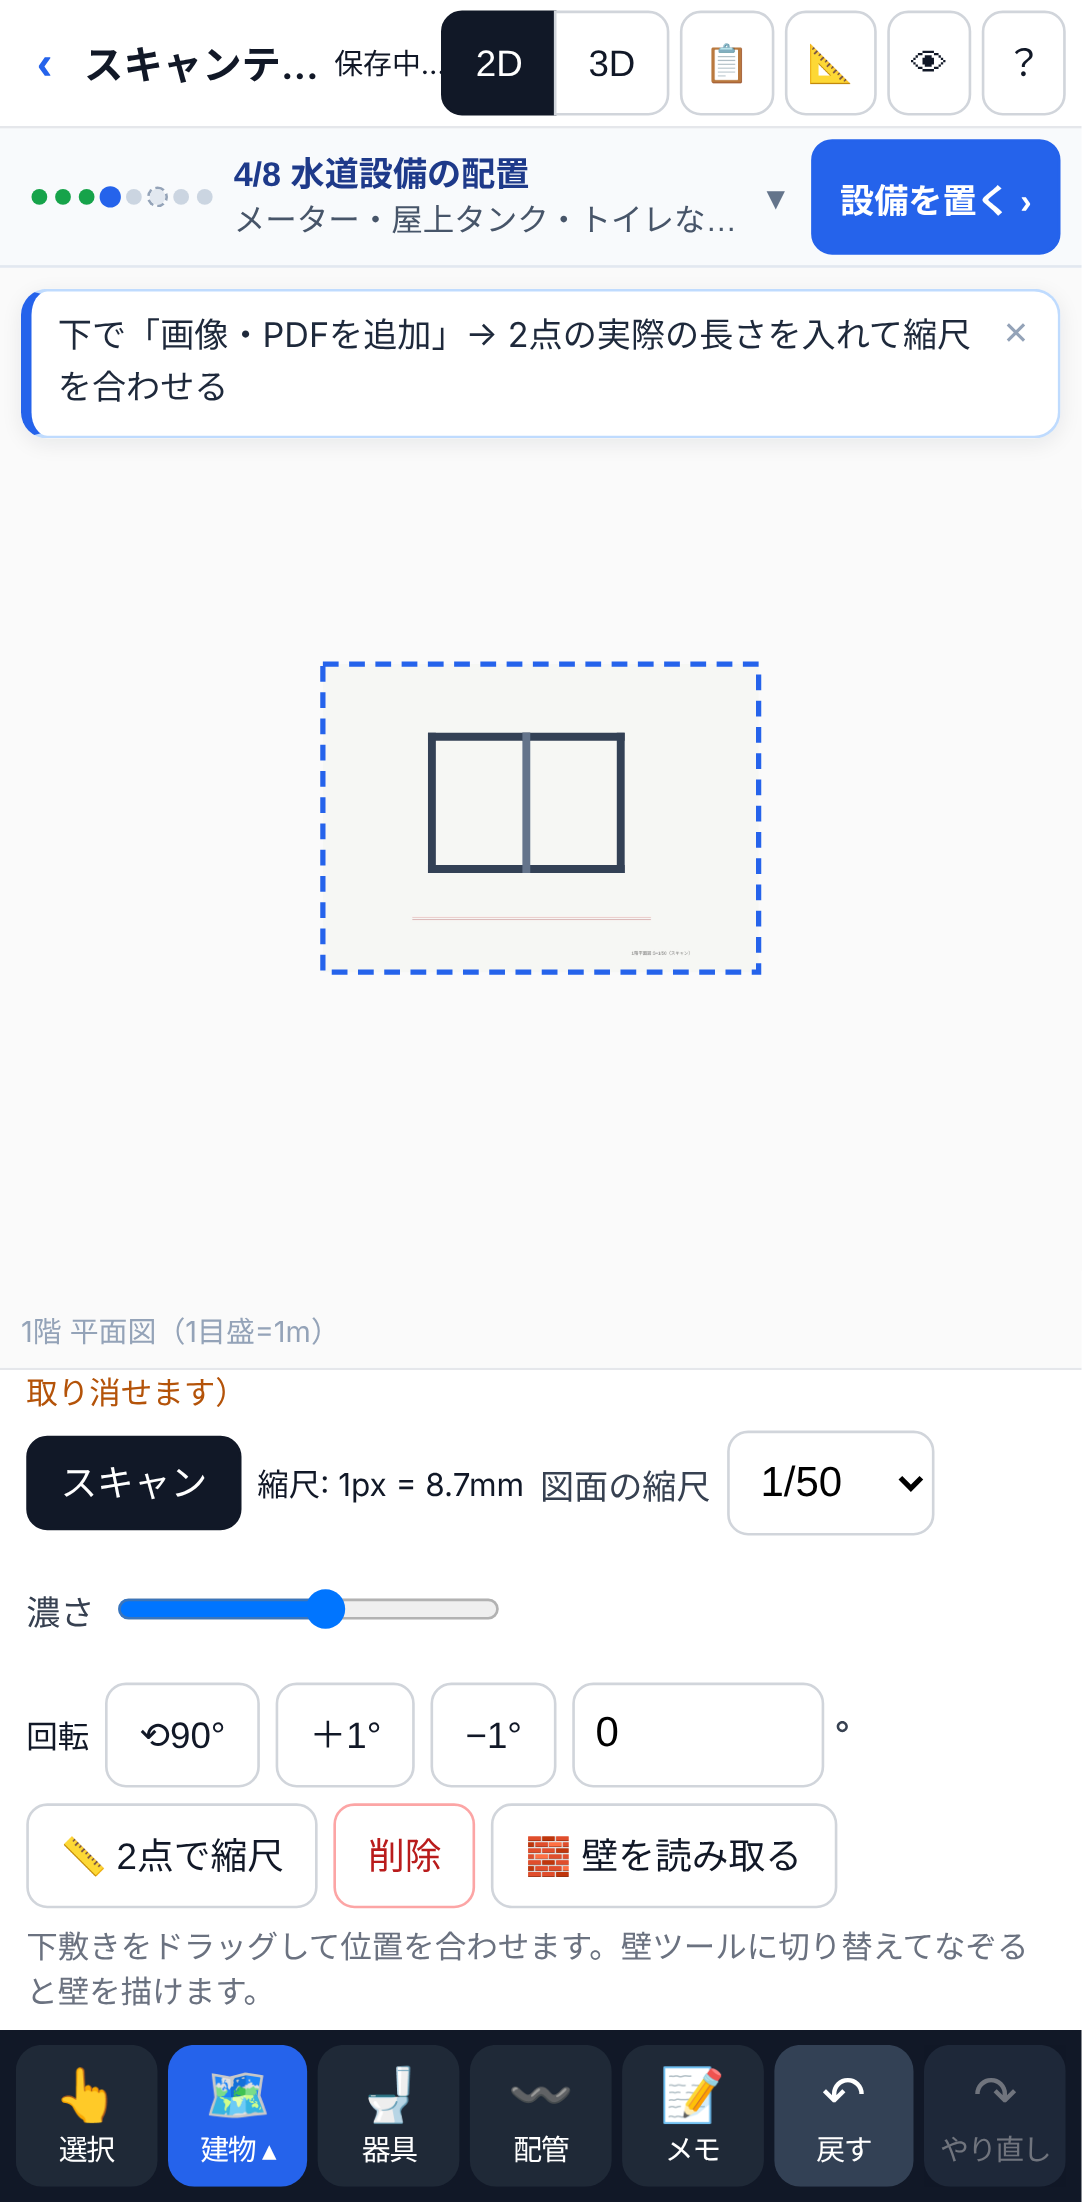
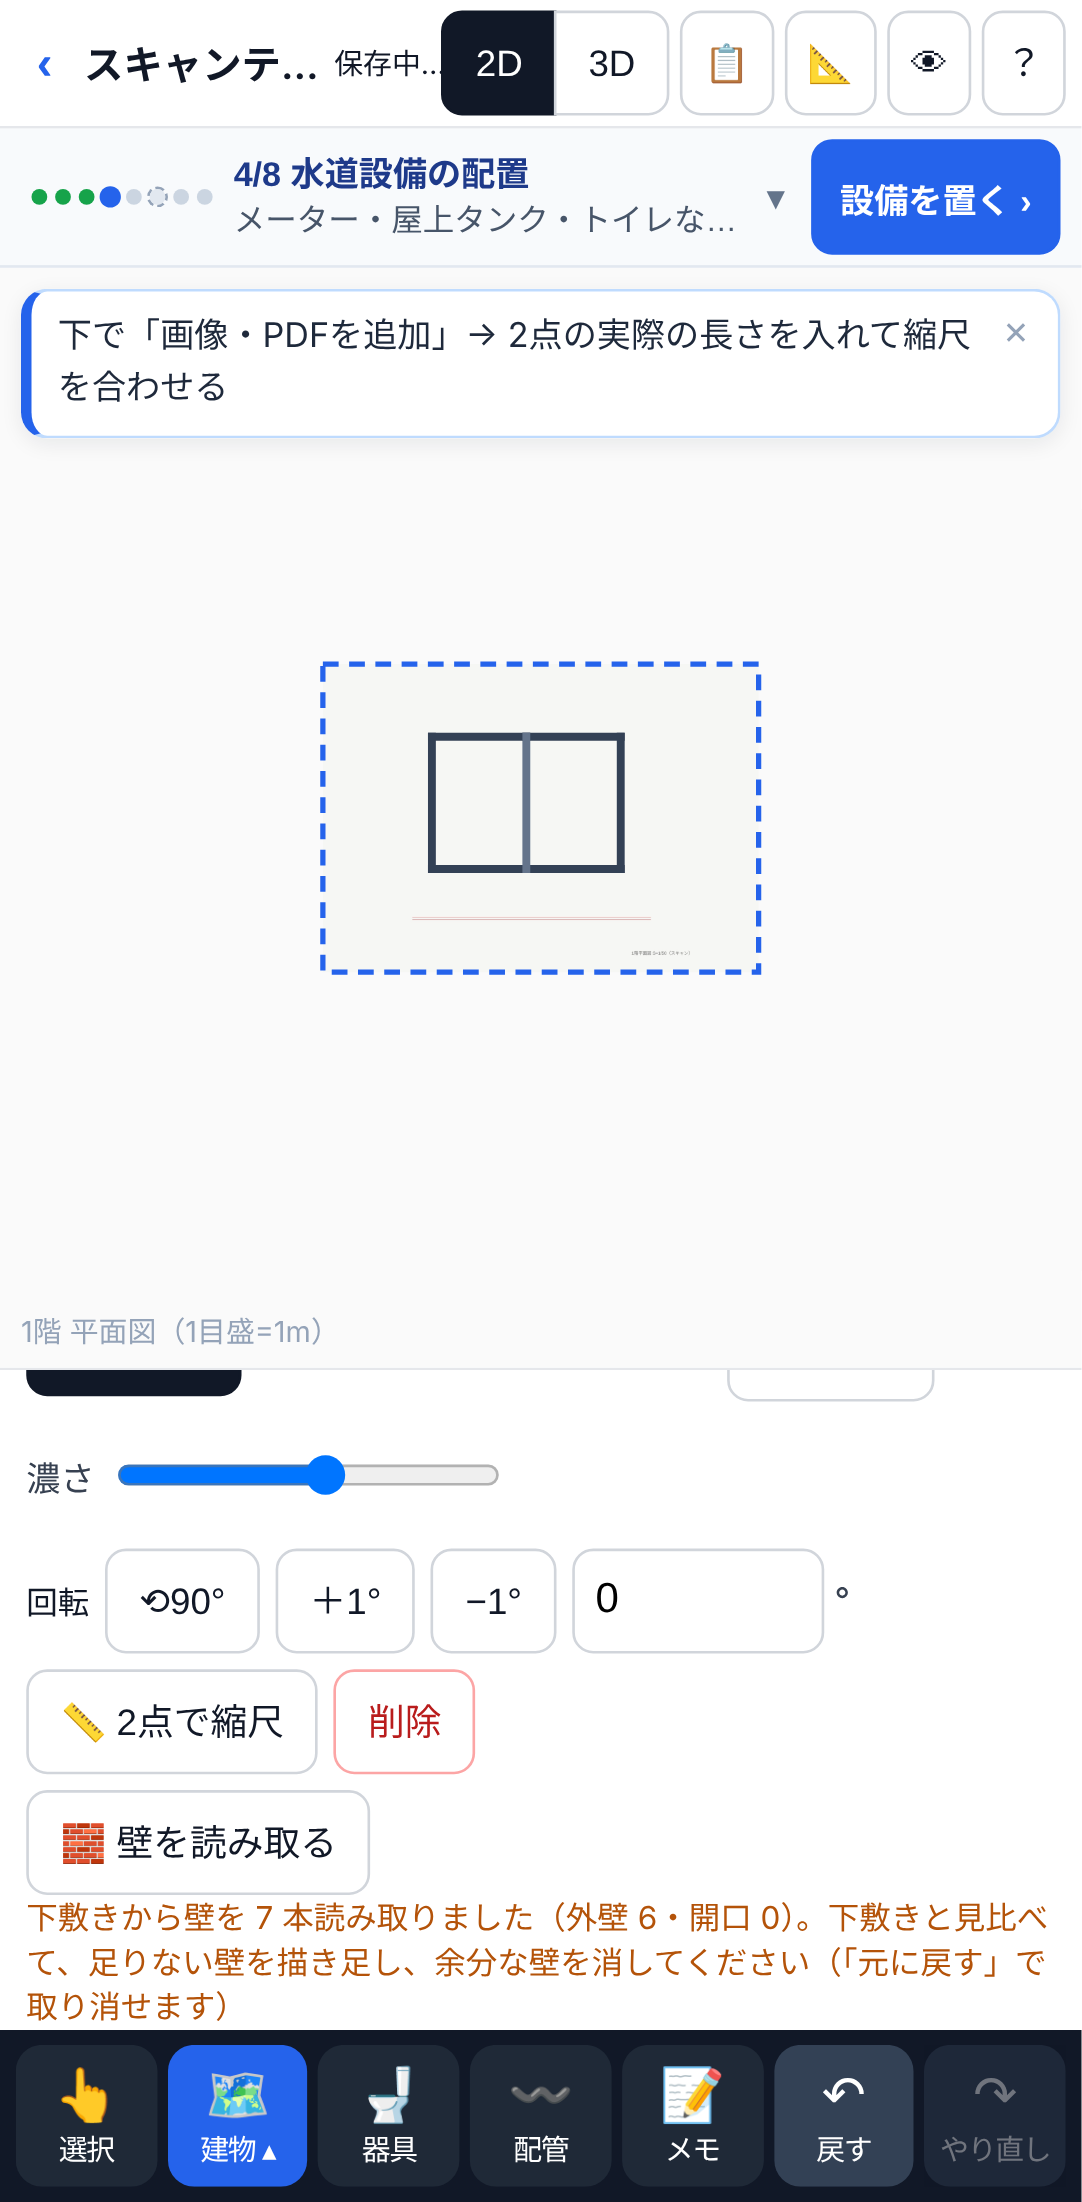
fix: 監査の指摘 — 表・文字枠を壁にしない、ロック中の壁は置き換えない、結果をボタンの下に（スマホ）
Claude-Session: https://claude.ai/code/session_0147UKVwBmNFrXg4wqBoozMN

diff --git a/src/ui/UnderlayPanel.tsx b/src/ui/UnderlayPanel.tsx
@@ -181,7 +181,7 @@ export function UnderlayPanel() {
           ) : (
             <ScalePick />
           )}
-          {(active.kind === 'pdf' || active.kind === 'image') && <ScanWalls u={active} onNote={(m) => { setNote(m); setErr(''); }} onError={(m) => { setErr(m); setNote(''); }} />}
+          {(active.kind === 'pdf' || active.kind === 'image') && <ScanWalls key={active.id} u={active} />}
           <div className="muted small">下敷きをドラッグして位置を合わせます。壁ツールに切り替えてなぞると壁を描けます。</div>
         </>
       )}
@@ -191,39 +191,49 @@ export function UnderlayPanel() {
 }
 
 /** スキャンした図面（画像だけの PDF・写真）から壁の候補を読み、この階に入れる */
-function ScanWalls({ u, onNote, onError }: { u: Underlay; onNote: (m: string) => void; onError: (m: string) => void }) {
+function ScanWalls({ u }: { u: Underlay }) {
   const st = useStore.getState();
+  // 数だけを選ぶ（配列を選ぶと毎回新しい値になり、描き直しが止まらない）
   const existing = useStore((s) => Object.values(s.doc.building.walls).filter((w) => w.floorId === u.floorId).length);
+  const locked = useStore((s) => Object.values(s.doc.building.walls).filter((w) => w.floorId === u.floorId && w.locked).length);
   const [busy, setBusy] = useState(false);
   const [confirm, setConfirm] = useState(false);
+  // 結果はボタンのすぐ下に出す（スマホでパネルの上の方のお知らせは画面の外になる）
+  const [msg, setMsg] = useState<{ text: string; error?: boolean } | null>(null);
+  const msgRef = useRef<HTMLDivElement>(null);
+  useEffect(() => { if (msg) msgRef.current?.scrollIntoView?.({ block: 'nearest' }); }, [msg]);
   if (!u.scaled) return <div className="muted small" data-testid="ul-walls-hint">🧱 縮尺を決めると、スキャンした図面から壁を読み取れます</div>;
   const read = async (replace: boolean) => {
     setConfirm(false);
     setBusy(true);
+    setMsg(null);
     try {
       const { readWallsFromUnderlay } = await import('../import/scanWalls');
       const walls = await readWallsFromUnderlay(u);
-      if (!walls.length) { onError('壁を読み取れませんでした（線が薄い・写真が斜め・縮尺が合っていない など）。下敷きをなぞって描いてください'); return; }
+      if (!walls.length) { setMsg({ text: '壁を読み取れませんでした（線が薄い・写真が斜め・縮尺が合っていない など）。下敷きをなぞって描いてください', error: true }); return; }
       const r = st.readUnderlayWalls(u.id, walls, replace);
-      if (!r) { onError('壁を入れられませんでした'); return; }
-      onNote(`下敷きから壁を ${r.walls} 本読み取りました（外壁 ${r.exterior}・開口 ${r.openings}）。下敷きと見比べて、足りない壁を描き足し、余分な壁を消してください（「元に戻す」で取り消せます）`);
+      if (!r) { setMsg({ text: useStore.getState().notice || '壁を入れられませんでした', error: true }); return; }
+      setMsg({ text: `下敷きから壁を ${r.walls} 本読み取りました（外壁 ${r.exterior}・開口 ${r.openings}）。下敷きと見比べて、足りない壁を描き足し、余分な壁を消してください（「元に戻す」で取り消せます）` });
     } catch (e) {
-      onError(`壁を読み取れませんでした: ${e instanceof Error ? e.message : String(e)}`);
+      setMsg({ text: `壁を読み取れませんでした: ${e instanceof Error ? e.message : String(e)}`, error: true });
     } finally { setBusy(false); }
   };
   return (
-    <div className="row" data-testid="ul-walls">
-      {!confirm ? (
-        <button data-testid="ul-read-walls" disabled={busy} title="スキャンした図面（画像だけの PDF）・写真の黒い線から、壁の候補を読み取ってこの階に入れます。赤や青の書き込みは読みません" onClick={() => (existing ? setConfirm(true) : void read(false))}>
-          {busy ? '読み取り中…' : '🧱 壁を読み取る'}
-        </button>
-      ) : (
-        <>
-          <span className="warn small">この階の壁 {existing} 本を消して、下敷きから読み直しますか？</span>
-          <button className="danger" data-testid="ul-walls-replace" onClick={() => void read(true)}>置き換える</button>
-          <button data-testid="ul-walls-cancel" onClick={() => setConfirm(false)}>やめる</button>
-        </>
-      )}
+    <div data-testid="ul-walls">
+      <div className="row">
+        {!confirm ? (
+          <button data-testid="ul-read-walls" disabled={busy} title="スキャンした図面（画像だけの PDF）・写真の黒い線から、壁の候補を読み取ってこの階に入れます。赤や青の書き込みは読みません" onClick={() => (existing ? setConfirm(true) : void read(false))}>
+            {busy ? '読み取り中…' : '🧱 壁を読み取る'}
+          </button>
+        ) : (
+          <>
+            <span className="warn small">この階の壁 {existing} 本を消して、下敷きから読み直しますか？{locked ? `（うち 🔒 ${locked} 本はロック中のため、ロックを外すまで置き換えできません）` : ''}</span>
+            <button className="danger" data-testid="ul-walls-replace" onClick={() => void read(true)}>置き換える</button>
+            <button data-testid="ul-walls-cancel" onClick={() => setConfirm(false)}>やめる</button>
+          </>
+        )}
+      </div>
+      {msg && <div ref={msgRef} className={msg.error ? 'err small' : 'warn small'} role={msg.error ? 'alert' : undefined} data-testid="ul-walls-msg">{msg.text}</div>}
     </div>
   );
 }

diff --git a/src/model/planRead/raster.ts b/src/model/planRead/raster.ts
@@ -5,7 +5,7 @@
  * 文字は読まない（縮尺は下敷きで決める）。斜めの壁は対象外。
  */
 import type { Vec2 } from '../building';
-import { detectStrips, heavyWidth, WALL_STRIP, type WSeg } from './strips';
+import { detectStrips, heavyWidth, WALL_STRIP, type Strip, type WSeg } from './strips';
 import { buildingStrips, wallsFromStrips, type WallOpening } from './walls';
 
 /** 色の濃さ（最大−最小）がこれより大きい画素は書き込み（赤ペン・青ペン）とみなしてインクにしない */
@@ -82,6 +82,32 @@ export function rasterLines(mask: Uint8Array, w: number, h: number, minRun: numb
   return out;
 }
 
+/**
+ * 表（申請書・チェックシートの罫線など）を除く: 平行な帯が線を共有して並ぶ（はしご）所は壁ではない。
+ * 本物の壁は 1 本の線を両側の壁で共有しない
+ */
+export function dropLadders(strips: Strip[]): Strip[] {
+  const shares = (p: Strip, q: Strip) => p !== q && p.dir === q.dir
+    && Math.abs(Math.abs(p.c - q.c) - (p.t + q.t) / 2) < Math.min(p.t, q.t) * 0.25
+    && Math.min(p.hi, q.hi) - Math.max(p.lo, q.lo) > Math.min(p.hi - p.lo, q.hi - q.lo) * 0.5;
+  return strips.filter((p) => !strips.some((q) => shares(p, q)));
+}
+
+const wallLen = (w: { a: Vec2; b: Vec2 }) => Math.hypot(w.b.x - w.a.x, w.b.y - w.a.y);
+/** 点から線分までの距離 */
+const distTo = (p: Vec2, w: { a: Vec2; b: Vec2 }) => {
+  const L = wallLen(w), t = L ? Math.max(0, Math.min(1, ((p.x - w.a.x) * (w.b.x - w.a.x) + (p.y - w.a.y) * (w.b.y - w.a.y)) / (L * L))) : 0;
+  return Math.hypot(p.x - (w.a.x + (w.b.x - w.a.x) * t), p.y - (w.a.y + (w.b.y - w.a.y) * t));
+};
+/**
+ * スキャンの読み取りの誤り（文字枠・記号の枠・寸法の付近）を除く: 厚すぎて短い壁（厚さ 180mm 超・長さ 1m 未満）と、
+ * どの壁にも端が触れていない短い壁（600mm 未満）
+ */
+function pruneWalls<T extends { a: Vec2; b: Vec2; thickness: number }>(walls: T[]): T[] {
+  const keep = walls.filter((w) => !(w.thickness > 180 && wallLen(w) < 1000));
+  return keep.filter((w) => wallLen(w) >= 600 || keep.some((o) => o !== w && (distTo(w.a, o) < 150 || distTo(w.b, o) < 150)));
+}
+
 /** 壁の候補（端は画像の画素の座標、厚さと開口は mm） */
 export type PxWall = { a: Vec2; b: Vec2; thickness: number; kind: 'exterior' | 'interior'; openings: WallOpening[] };
 
@@ -96,7 +122,7 @@ export function rasterWalls(mask: Uint8Array, w: number, h: number, mmPerPx: num
     ? { x1: l.lo * mmPerPx, y1: -l.c * mmPerPx, x2: (l.hi + 1) * mmPerPx, y2: -l.c * mmPerPx, w: l.t * paperMmPerPx }
     : { x1: l.c * mmPerPx, y1: -l.lo * mmPerPx, x2: l.c * mmPerPx, y2: -(l.hi + 1) * mmPerPx, w: l.t * paperMmPerPx }));
   if (!heavyWidth(segs)) return [];
-  const walls = wallsFromStrips(buildingStrips(detectStrips(segs, WALL_STRIP)), segs);
+  const walls = pruneWalls(wallsFromStrips(buildingStrips(dropLadders(detectStrips(segs, WALL_STRIP))), segs));
   const px = (p: Vec2): Vec2 => ({ x: p.x / mmPerPx, y: -p.y / mmPerPx });
   return walls.map((v) => ({ a: px(v.a), b: px(v.b), thickness: v.thickness, kind: v.kind, openings: v.openings }));
 }

diff --git a/src/model/planRead/raster.test.ts b/src/model/planRead/raster.test.ts
@@ -97,6 +97,33 @@ describe('スキャンから壁（rasterWalls）', () => {
     expect(ws.filter((w) => w.kind === 'exterior')).toHaveLength(4);
     expect(ws.some((w) => (w.a.y > 900 && w.b.y > 900) || (w.a.x > 1250 && w.b.x > 1250))).toBe(false);
   });
+  test('文字の枠（「CH=2300」のような小さな四角）・離れた短い線の組は壁にしない', () => {
+    const c = canvas(1400, 1000);
+    house(c);
+    // 部屋の中の文字枠: 幅 500mm・高さ 200mm の四角（上下の線が 200mm 離れて平行 → 帯に見える）
+    const bx = 300, by = 400, bw = Math.round(500 / MMPP), bh = Math.round(200 / MMPP);
+    c.line(bx, by, bx + bw, by, 2); c.line(bx, by + bh, bx + bw, by + bh, 2); c.line(bx, by, bx, by + bh, 2); c.line(bx + bw, by, bx + bw, by + bh, 2);
+    const ws = rasterWalls(inkMask(c.d, c.w, c.h), c.w, c.h, MMPP, PAPER);
+    expect(ws.some((w) => Math.min(w.a.x, w.b.x) >= bx - 5 && Math.max(w.a.x, w.b.x) <= bx + bw + 5 && Math.min(w.a.y, w.b.y) >= by - 5 && Math.max(w.a.y, w.b.y) <= by + bh + 5)).toBe(false);
+    expect(ws.filter((w) => w.kind === 'exterior')).toHaveLength(4);
+  });
+  test('表（申請書・チェックシートのページ）は壁にしない', () => {
+    const c = canvas(1400, 1000);
+    for (let r = 0; r <= 30; r++) c.line(100, 100 + r * 25, 1300, 100 + r * 25, 2);
+    for (const x of [100, 160, 600, 900, 1300]) c.line(x, 100, x, 850, 2);
+    expect(rasterWalls(inkMask(c.d, c.w, c.h), c.w, c.h, MMPP, PAPER).length).toBeLessThanOrEqual(2);
+  });
+  test('1/100（1px = 17.5mm、壁の線の間は約 7px）でも外壁 4 本', () => {
+    const M = 17.5, c = canvas(800, 600), o = Math.round(60 / M);
+    const wall = (x1: number, y1: number, x2: number, y2: number) => {
+      if (y1 === y2) { c.line(x1 - o, y1 - o, x2 + o, y1 - o, 1); c.line(x1 - o, y1 + o, x2 + o, y1 + o, 1); }
+      else { c.line(x1 - o, y1 - o, x1 - o, y2 + o, 1); c.line(x1 + o, y1 - o, x1 + o, y2 + o, 1); }
+    };
+    const X0 = 100, Y0 = 100, W = Math.round(9100 / M), H = Math.round(6370 / M);
+    wall(X0, Y0, X0 + W, Y0); wall(X0, Y0 + H, X0 + W, Y0 + H); wall(X0, Y0, X0, Y0 + H); wall(X0 + W, Y0, X0 + W, Y0 + H);
+    const ws = rasterWalls(inkMask(c.d, c.w, c.h), c.w, c.h, M, 0.175);
+    expect(ws.filter((w) => w.kind === 'exterior')).toHaveLength(4);
+  });
   test('白紙・真っ黒・文字のような点だけの画像は 0 本', () => {
     const blank = canvas(300, 200), black = canvas(300, 200, 0), dots = canvas(300, 200);
     for (let i = 0; i < 400; i++) dots.line((i * 37) % 290, (i * 53) % 190, ((i * 37) % 290) + 4, (i * 53) % 190, 1);

diff --git a/src/state/store.ts b/src/state/store.ts
@@ -1190,6 +1190,8 @@ export const useStore = create<State>((set, get) => {
       let b = doc.building;
       const existing = B.wallsOnFloor(b, u.floorId);
       if (existing.length && !replace) return null;
+      const locked = existing.filter((w) => w.locked).length;
+      if (locked) { set({ notice: `この階にはロック中の壁が ${locked} 本あります（図面から読み取った壁）。置き換えるときは、壁を選んで「🔒 位置をロック」を外してください` }); return null; }
       for (const w of existing) b = B.deleteWall(b, w.id);
       const specs = walls.map((w) => ({ ...w, a: pxToWorld(u, w.a), b: pxToWorld(u, w.b) }));
       let added = 0;
@@ -1197,7 +1199,9 @@ export const useStore = create<State>((set, get) => {
       if (!added) return null;
       const op = addSpecOpenings(b, u.floorId, specs);
       commit(withBld(op.b), { selection: null });
-      return { walls: added, exterior: specs.filter((w) => w.kind === 'exterior').length, openings: op.count };
+      // 本数は入れた後のこの階の壁（T でつながる所で分かれた後。画面の「この階の壁 N 本」と同じ数え方）
+      const now = B.wallsOnFloor(op.b, u.floorId);
+      return { walls: now.length, exterior: now.filter((w) => w.kind === 'exterior').length, openings: op.count };
     },
     addOpeningsBatch: (wallId, list) => {
       let b = get().doc.building, added = 0;

diff --git a/e2e/scanWalls.spec.ts b/e2e/scanWalls.spec.ts
@@ -48,8 +48,9 @@ test.describe('スキャン図面から壁を読み取る', () => {
     await expect(page.getByTestId('ul-read-walls')).toHaveCount(0);
     await page.getByTestId('ul-paper-scale').selectOption('50');
     await page.getByTestId('ul-read-walls').click();
-    await expect(page.getByTestId('ul-note')).toContainText('壁を');
-    await expect(page.getByTestId('ul-note')).toContainText('外壁 4');
+    // 結果はボタンのすぐ下に出す（スマホで画面の外にならない）
+    await expect(page.getByTestId('ul-walls-msg')).toContainText('壁を');
+    await expect(page.getByTestId('ul-walls-msg')).toBeInViewport();
     const doc = await full(page);
     const walls = Object.values(doc.building.walls) as { kind: string; thickness: number }[];
     expect(walls.filter((w) => w.kind === 'exterior').length).toBeGreaterThanOrEqual(4);
@@ -65,7 +66,7 @@ test.describe('スキャン図面から壁を読み取る', () => {
     expect(Object.keys((await full(page)).building.walls)).toHaveLength(n);
     await page.getByTestId('ul-read-walls').click();
     await page.getByTestId('ul-walls-replace').click();
-    await expect(page.getByTestId('ul-note')).toContainText('外壁 4');
+    await expect(page.getByTestId('ul-walls-msg')).toContainText(`壁を ${n} 本`);
     expect(Object.keys((await full(page)).building.walls)).toHaveLength(n);
   });
 });

diff --git a/docs/progress/log/2026-11-17-feat-scan-plan-read.md b/docs/progress/log/2026-11-17-feat-scan-plan-read.md
@@ -1,0 +1,25 @@
+# 2026-11-17 feat/scan-plan-read — スキャン図面（画像だけの PDF）から壁を読み取る
+
+きっかけ: 2026-11-16 の実物（南風原町の 1 件）の平面図・基礎伏図・配置図が複合機のスキャン（300dpi 白黒＋赤の手書き）で、自動 3D が読めなかった。
+
+## 作ったもの
+- `src/model/planRead/raster.ts`: 画素 → インク（大津の閾値を暗い側へ寄せる。赤・青などの色の書き込みは除く）→ 水平・垂直の線（同じ幅で続く行をまとめる）→ 既存の壁の読み取り（strips/walls）。表（線を共有して並ぶ帯）・文字枠（厚さ 180mm 超で 1m 未満）・離れた短い壁は除く
+- ストア `readUnderlayWalls`: 下敷きの位置・回転・縮尺で図面へ（pxToWorld）、開口も。壁がある階は「置き換える」を選んだときだけ。ロック中の壁があれば置き換えない（お知らせ）。元に戻せる
+- 下敷きのパネル「🧱 壁を読み取る」（PDF・画像の下敷きで縮尺が決まっているとき。仮の縮尺なら案内）。結果はボタンのすぐ下（スマホで見える）
+- 自動 3D の「スキャンは読めません」の案内に、この手順を足した
+
+## 実物との照合（手元のみ、bench-data）
+- 1 階平面図（1/50、145dpi）: 壁 22 本（外壁 11）、外形の幅 15,452mm（図面の寸法 15,925）。文字枠・記号の枠などの誤りは 0。読み取り約 0.25 秒（Node）
+- 申請書の表のページ: 0 本
+
+## 独立監査（opus）
+- Important 1（実物で線の太さの見分けが効かず、文字枠・表が壁になる）→ はしご（表）と厚くて短い壁・離れた短い壁を除く。テスト 2 件 RED→GREEN、実物で 34 本（誤り 6〜7）→ 22 本（誤り 0）
+- Important 2（置き換えでロック中の壁も消える）→ ロック中があれば置き換えない。テスト RED→GREEN
+- Minor 6 をスマホでは重いとして格上げ（結果の文が画面の外）→ ボタンの下に出して見える所へ。E2E で確認
+- Minor 5（結果の本数と確認の本数が違う）→ 入れた後の階の壁で数える（同じ所を直したので一緒に）
+- 1/100 の合成テストを足した（通る。ただし実物の 1/100 のスキャンでは弱いかもしれない）
+- 後回し: 壁の芯が 0.5px ずれる（1/50 で約 4mm）、カラー印刷の CAD 図面は色の線を読まない、傾いたスキャン・写真の補正なし、作業用 canvas の解放
+
+## テスト
+- 単体 1,389 合格（新規: raster 10、ストア 4）
+- E2E: e2e/scanWalls.spec.ts（PC・iPhone・Android エミュ）、全体 261 合格（修正前）・修正後に下敷き関係 16 合格
